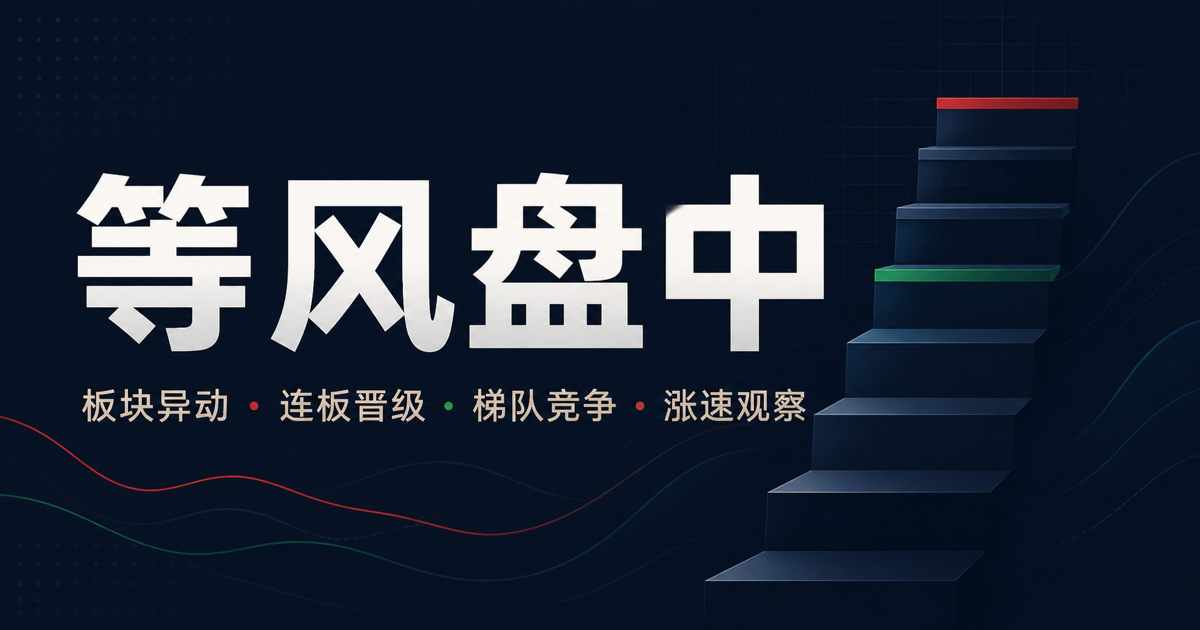
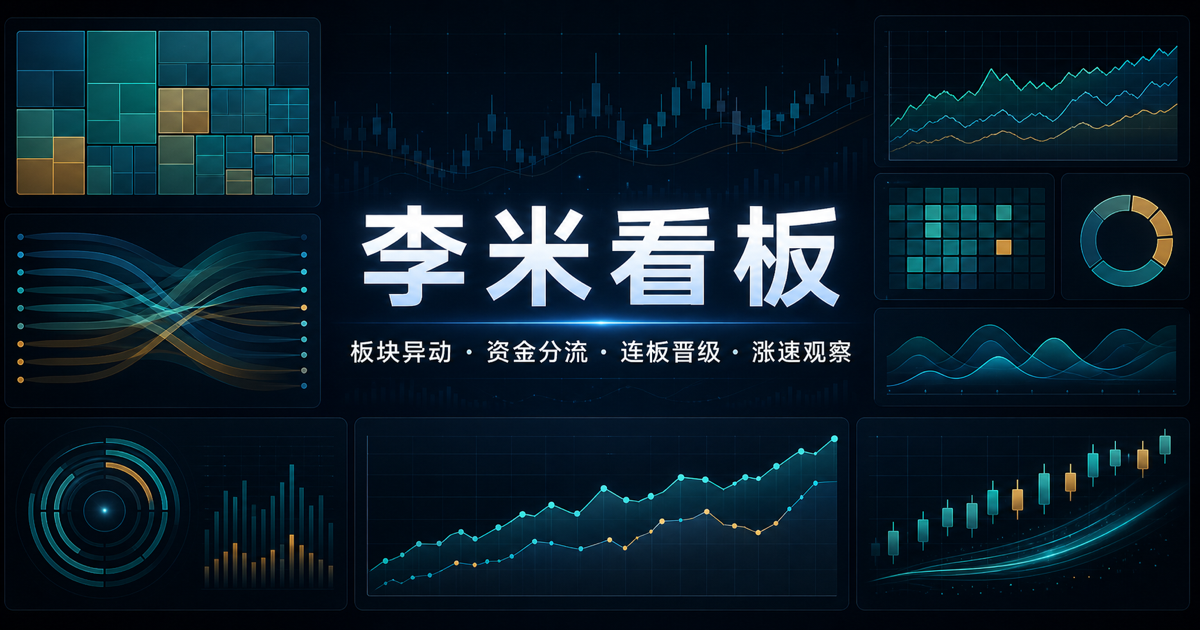
Rename dashboard to Li Mi Dashboard

diff --git a/app/layout.tsx b/app/layout.tsx
@@ -13,10 +13,10 @@ const geistMono = Geist_Mono({
 });
 
 export const metadata: Metadata = {
-  title: '等风盘中 · 异动与晋级监控',
+  title: '李米看板',
   description: '板块驱动、连板晋级、同梯队竞争与打板涨速监控。',
   openGraph: {
-    title: '等风盘中',
+    title: '李米看板',
     description: '板块异动 · 连板晋级 · 梯队竞争 · 涨速观察',
     type: 'website',
     images: [
@@ -24,13 +24,13 @@ export const metadata: Metadata = {
         url: '/og.png',
         width: 1200,
         height: 630,
-        alt: '等风盘中监控看板',
+        alt: '李米看板',
       },
     ],
   },
   twitter: {
     card: 'summary_large_image',
-    title: '等风盘中',
+    title: '李米看板',
     description: '板块异动 · 连板晋级 · 梯队竞争 · 涨速观察',
     images: ['/og.png'],
   },

diff --git a/app/page.tsx b/app/page.tsx
@@ -604,7 +604,7 @@ export default function Home() {
           <div className="flex min-w-0 items-center gap-3">
             <div className="grid size-9 shrink-0 place-items-center rounded-lg bg-primary text-primary-foreground"><Activity /></div>
             <div className="min-w-0">
-              <h1 className="truncate text-base font-semibold tracking-tight sm:text-lg">等风盘中 · 异动与晋级监控</h1>
+              <h1 className="truncate text-base font-semibold tracking-tight sm:text-lg">李米看板</h1>
               <p className="truncate text-xs text-muted-foreground">板块资金曲线、资金分流、连板梯队与涨速一屏联动</p>
             </div>
           </div>
